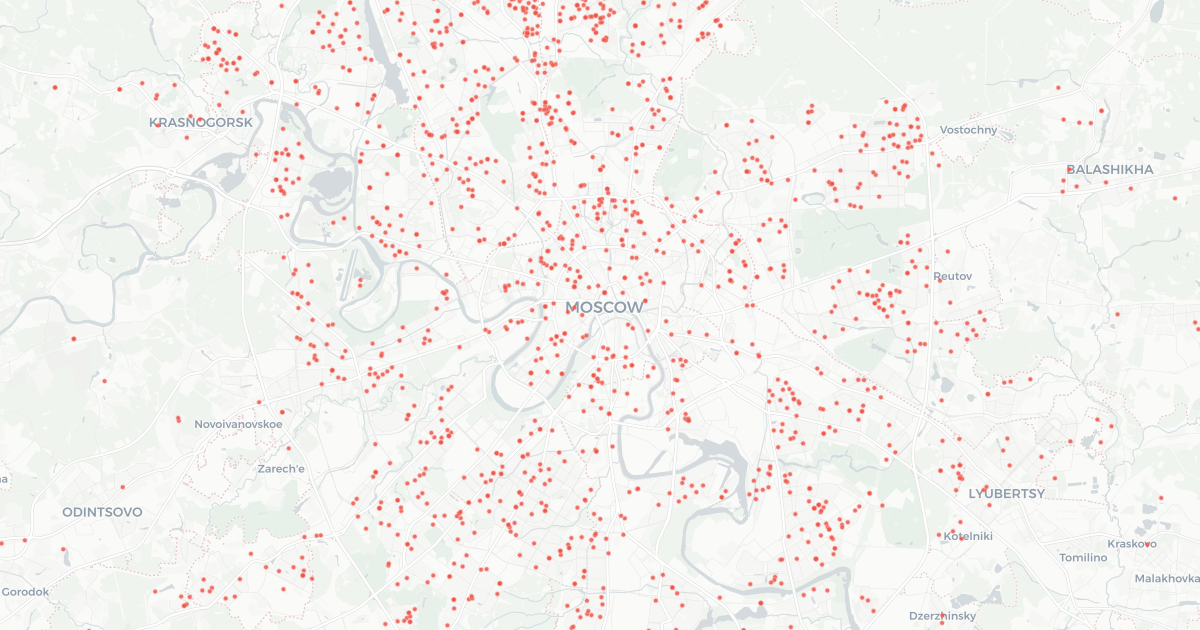
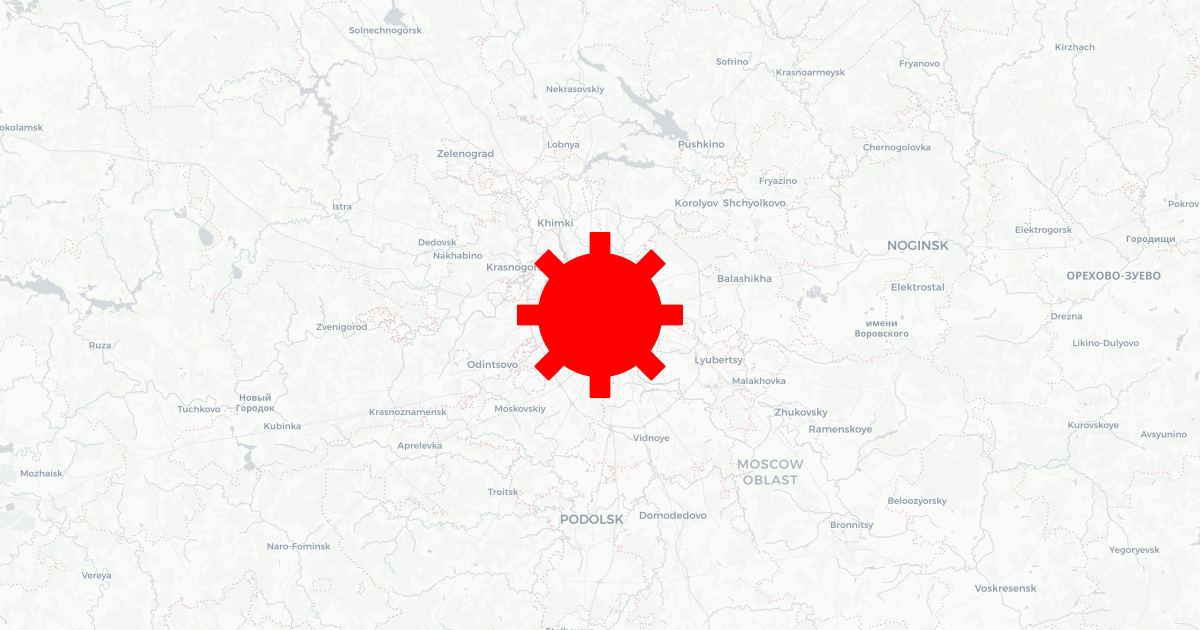
Disable points

diff --git a/css/style.min.css b/css/style.min.css
@@ -1,2 +1,2 @@
 /*! normalize.css v8.0.1 | MIT License | github.com/necolas/normalize.css */
-html{line-height:1.15;-webkit-text-size-adjust:100%}body{font-family:'Montserrat',sans-serif;font-weight:600;margin:0;padding:0;overflow:hidden}canvas,details,main{display:block}h1{font-size:2em;margin:.67em 0}hr{box-sizing:content-box;height:0;overflow:visible}code,kbd,pre,samp{font-family:monospace,monospace;font-size:1em}a{background-color:transparent}abbr[title]{border-bottom:none;-webkit-text-decoration:underline dotted;text-decoration:underline dotted}b,strong{font-weight:bolder}small{font-size:80%}sub,sup{font-size:75%;line-height:0;position:relative;vertical-align:baseline}sub{bottom:-.25em}sup{top:-.5em}img{border-style:none}button,input,optgroup,select,textarea{font-family:inherit;font-size:100%;line-height:1.15;margin:0}button,input{overflow:visible}button,select{text-transform:none}[type=button],[type=reset],[type=submit],button{-webkit-appearance:button}[type=button]::-moz-focus-inner,[type=reset]::-moz-focus-inner,[type=submit]::-moz-focus-inner,button::-moz-focus-inner{border-style:none;padding:0}[type=button]:-moz-focusring,[type=reset]:-moz-focusring,[type=submit]:-moz-focusring,button:-moz-focusring{outline:1px dotted ButtonText}fieldset{padding:.35em .75em .625em}legend{color:inherit;display:table;max-width:100%;white-space:normal}progress{vertical-align:baseline}textarea{overflow:auto}[type=checkbox],[type=radio],legend{box-sizing:border-box;padding:0}[type=number]::-webkit-inner-spin-button,[type=number]::-webkit-outer-spin-button{height:auto}[type=search]{-webkit-appearance:textfield;outline-offset:-2px}[type=search]::-webkit-search-decoration{-webkit-appearance:none}::-webkit-file-upload-button{-webkit-appearance:button;font:inherit}summary{display:list-item}[hidden],template{display:none}#app,#map{width:100vw;height:100vh;height:calc(var(--vh, 1vh)*100);position:absolute}.leaflet-image-layer,.leaflet-layer,.leaflet-marker-icon,.leaflet-marker-shadow,.leaflet-pane,.leaflet-pane>canvas,.leaflet-pane>svg,.leaflet-tile,.leaflet-tile-container,.leaflet-zoom-box{position:absolute;left:0;top:0}.leaflet-container{overflow:hidden}.leaflet-marker-icon,.leaflet-marker-shadow,.leaflet-tile{-webkit-user-select:none;-moz-user-select:none;user-select:none;-webkit-user-drag:none}.leaflet-safari .leaflet-tile{image-rendering:-webkit-optimize-contrast}.leaflet-safari .leaflet-tile-container{width:1600px;height:1600px;-webkit-transform-origin:0 0}.leaflet-control-layers label,.leaflet-marker-icon,.leaflet-marker-shadow{display:block}.leaflet-container .leaflet-marker-pane img,.leaflet-container .leaflet-overlay-pane svg,.leaflet-container .leaflet-shadow-pane img,.leaflet-container .leaflet-tile,.leaflet-container .leaflet-tile-pane img,.leaflet-container img.leaflet-image-layer{max-width:none!important;max-height:none!important}.leaflet-container.leaflet-touch-zoom{touch-action:pan-x pan-y}.leaflet-container.leaflet-touch-drag{touch-action:pinch-zoom}.leaflet-container.leaflet-touch-drag.leaflet-touch-zoom{touch-action:none}.leaflet-container{-webkit-tap-highlight-color:transparent}.leaflet-container a{-webkit-tap-highlight-color:rgba(51,181,229,.4);color:#0078a8}.leaflet-tile{-webkit-filter:inherit;filter:inherit;visibility:hidden}.leaflet-tile-loaded{visibility:inherit}.leaflet-zoom-box{width:0;height:0;box-sizing:border-box;z-index:800}.leaflet-overlay-pane svg{-moz-user-select:none}.leaflet-pane{z-index:400}.leaflet-map-pane svg,.leaflet-tile-pane{z-index:200}.leaflet-overlay-pane{z-index:400}.leaflet-shadow-pane{z-index:500}.leaflet-marker-pane{z-index:600}.leaflet-tooltip-pane{z-index:650}.leaflet-popup-pane{z-index:700}.leaflet-map-pane canvas{z-index:100}.leaflet-vml-shape{width:1px;height:1px}.lvml{behavior:url(#default#VML);display:inline-block;position:absolute}.leaflet-control{position:relative;z-index:800;pointer-events:auto}.leaflet-bottom,.leaflet-top{position:absolute;z-index:1000;pointer-events:none}.leaflet-top{top:0}.leaflet-right{right:0}.leaflet-bottom{bottom:0}.leaflet-left{left:0}.leaflet-control{float:left;clear:both}.leaflet-right .leaflet-control{float:right}.leaflet-top .leaflet-control{margin-top:10px}.leaflet-bottom .leaflet-control{margin-bottom:10px}.leaflet-left .leaflet-control{margin-left:10px}.leaflet-right .leaflet-control{margin-right:10px}.leaflet-fade-anim .leaflet-tile{will-change:opacity}.leaflet-fade-anim .leaflet-popup{opacity:0;transition:opacity .2s linear}.leaflet-fade-anim .leaflet-map-pane .leaflet-popup{opacity:1}.leaflet-zoom-anim .leaflet-zoom-animated{will-change:transform;transition:transform .25s cubic-bezier(0,0,.25,1)}.leaflet-pan-anim .leaflet-tile,.leaflet-zoom-anim .leaflet-tile{transition:none}.leaflet-zoom-anim .leaflet-zoom-hide{visibility:hidden}.leaflet-interactive{cursor:pointer}.leaflet-grab{cursor:-webkit-grab;cursor:grab}.leaflet-crosshair,.leaflet-crosshair .leaflet-interactive{cursor:crosshair}.leaflet-control,.leaflet-popup-pane{cursor:auto}.leaflet-dragging .leaflet-grab,.leaflet-dragging .leaflet-grab .leaflet-interactive,.leaflet-dragging .leaflet-marker-draggable{cursor:move;cursor:-webkit-grabbing;cursor:grabbing}#chart svg,.leaflet-image-layer,.leaflet-marker-icon,.leaflet-marker-shadow,.leaflet-pane>svg path,.leaflet-tile-container{pointer-events:none}.leaflet-image-layer.leaflet-interactive,.leaflet-marker-icon.leaflet-interactive,.leaflet-pane>svg path.leaflet-interactive{pointer-events:auto}.leaflet-container{background:#ddd;outline:0}.leaflet-container a.leaflet-active{outline:2px solid orange}.leaflet-zoom-box{border:2px dotted #38f;background:rgba(255,255,255,.5)}.leaflet-container{font:12px/1.5 "Helvetica Neue",Arial,Helvetica,sans-serif}.leaflet-bar{border-radius:4px}.leaflet-bar a,.leaflet-bar a:hover{background-color:#fff;border-bottom:1px solid #ccc;width:26px;height:26px;line-height:26px;text-align:center;text-decoration:none;color:#000}.leaflet-bar a:hover{display:block;background-color:#f4f4f4}.leaflet-bar a,.leaflet-control-layers-toggle{background-position:50% 50%;background-repeat:no-repeat;display:block}.leaflet-bar a:first-child{border-top-left-radius:4px;border-top-right-radius:4px}.leaflet-bar a:last-child{border-bottom-left-radius:4px;border-bottom-right-radius:4px;border-bottom:none}.leaflet-bar a.leaflet-disabled{cursor:default;background-color:#f4f4f4;color:#bbb}.leaflet-touch .leaflet-bar a{width:30px;height:30px;line-height:30px}.leaflet-touch .leaflet-bar a:first-child{border-top-left-radius:2px;border-top-right-radius:2px}.leaflet-touch .leaflet-bar a:last-child{border-bottom-left-radius:2px;border-bottom-right-radius:2px}.leaflet-control-zoom-in,.leaflet-control-zoom-out{font:700 18px 'Lucida Console',Monaco,monospace;text-indent:1px}.leaflet-touch .leaflet-control-zoom-in,.leaflet-touch .leaflet-control-zoom-out{font-size:22px}.leaflet-control-layers{box-shadow:0 1px 5px rgba(0,0,0,.4);background:#fff;border-radius:5px}.leaflet-control-layers-toggle{background-image:url(images/layers.png);width:36px;height:36px}.leaflet-retina .leaflet-control-layers-toggle{background-image:url(images/layers-2x.png);background-size:26px 26px}.leaflet-touch .leaflet-control-layers-toggle{width:44px;height:44px}.leaflet-control-layers .leaflet-control-layers-list,.leaflet-control-layers-expanded .leaflet-control-layers-toggle{display:none}.leaflet-control-layers-expanded .leaflet-control-layers-list{display:block;position:relative}.leaflet-control-layers-expanded{padding:6px 10px 6px 6px;color:#333;background:#fff}.leaflet-control-layers-scrollbar{overflow-y:scroll;overflow-x:hidden;padding-right:5px}.leaflet-control-layers-selector{margin-top:2px;position:relative;top:1px}.leaflet-control-layers-separator{height:0;border-top:1px solid #ddd;margin:5px -10px 5px -6px}.leaflet-default-icon-path{background-image:url(images/marker-icon.png)}.leaflet-container .leaflet-control-attribution{background:#fff;background:rgba(255,255,255,.7)}.leaflet-control-attribution{padding:0 5px;color:#333}.leaflet-control-scale-line{color:#333;border:2px solid #777;border-top:none;line-height:1.1;padding:2px 5px 1px;font-size:11px;white-space:nowrap;overflow:hidden;box-sizing:border-box;background:#fff;background:rgba(255,255,255,.5)}.leaflet-control-attribution a{text-decoration:none;color:#fff}.leaflet-control-attribution a:hover{text-decoration:underline}.leaflet-container .leaflet-control-scale{font-size:11px}.leaflet-left .leaflet-control-scale{margin-left:5px}.leaflet-bottom .leaflet-control-scale{margin-bottom:5px}.leaflet-control-scale-line:not(:first-child){border-top:2px solid #777;border-bottom:none;margin-top:-2px}.leaflet-control-scale-line:not(:first-child):not(:last-child){border-bottom:2px solid #777}.leaflet-touch .leaflet-bar,.leaflet-touch .leaflet-control-attribution,.leaflet-touch .leaflet-control-layers{box-shadow:none}.leaflet-touch .leaflet-bar,.leaflet-touch .leaflet-control-layers{border:2px solid rgba(0,0,0,.2);background-clip:padding-box}.leaflet-popup{position:absolute;text-align:center;margin-bottom:20px}.leaflet-popup-content-wrapper{padding:1px;text-align:left}.leaflet-popup-content{margin:13px 19px;line-height:1.4}.leaflet-popup-content p{margin:18px 0}.leaflet-popup-tip-container{width:40px;height:20px;position:absolute;left:50%;margin-left:-20px;overflow:hidden;pointer-events:none}.leaflet-popup-tip{width:17px;height:17px;padding:1px;margin:-10px auto 0;transform:rotate(45deg)}.leaflet-popup-content-wrapper,.leaflet-popup-tip{background:#fff;color:#333;box-shadow:0 3px 14px rgba(0,0,0,.4)}.leaflet-container a.leaflet-popup-close-button{position:absolute;top:0;right:0;padding:4px 4px 0 0;border:0;text-align:center;width:18px;height:14px;font:16px/14px Tahoma,Verdana,sans-serif;color:#c3c3c3;text-decoration:none;font-weight:700;background:0 0}.leaflet-container a.leaflet-popup-close-button:hover{color:#999}.leaflet-popup-scrolled{overflow:auto;border-bottom:1px solid #ddd;border-top:1px solid #ddd}.leaflet-oldie .leaflet-popup-content-wrapper{zoom:1}.leaflet-oldie .leaflet-popup-tip{width:24px;margin:0 auto;-ms-filter:"progid:DXImageTransform.Microsoft.Matrix(M11=0.70710678, M12=0.70710678, M21=-0.70710678, M22=0.70710678)";filter:progid:DXImageTransform.Microsoft.Matrix(M11=0.70710678, M12=0.70710678, M21=-0.70710678, M22=0.70710678)}.leaflet-oldie .leaflet-popup-tip-container{margin-top:-1px}.leaflet-oldie .leaflet-control-layers,.leaflet-oldie .leaflet-control-zoom,.leaflet-oldie .leaflet-popup-content-wrapper,.leaflet-oldie .leaflet-popup-tip{border:1px solid #999}.leaflet-div-icon{background:#fff;border:1px solid #666}#chart,.leaflet-tooltip{position:absolute;pointer-events:none}.leaflet-tooltip{padding:6px;background-color:#fff;border:1px solid #fff;border-radius:3px;color:#222;white-space:nowrap;-webkit-user-select:none;-moz-user-select:none;user-select:none;box-shadow:0 1px 3px rgba(0,0,0,.4)}.leaflet-tooltip.leaflet-clickable{cursor:pointer;pointer-events:auto}.leaflet-tooltip-bottom:before,.leaflet-tooltip-left:before,.leaflet-tooltip-right:before,.leaflet-tooltip-top:before{position:absolute;pointer-events:none;border:6px solid transparent;background:0 0;content:""}.leaflet-tooltip-bottom{margin-top:6px}.leaflet-tooltip-top{margin-top:-6px}.leaflet-tooltip-bottom:before{left:50%}.leaflet-tooltip-top:before{left:50%;margin-left:-6px;bottom:0;margin-bottom:-12px;border-top-color:#fff}.leaflet-tooltip-bottom:before{top:0;margin-top:-12px;margin-left:-6px;border-bottom-color:#fff}.leaflet-tooltip-left{margin-left:-6px}.leaflet-tooltip-right{margin-left:6px}.leaflet-tooltip-left:before,.leaflet-tooltip-right:before{top:50%;margin-top:-6px}.leaflet-tooltip-left:before{right:0;margin-right:-12px;border-left-color:#fff}.leaflet-tooltip-right:before{left:0;margin-left:-12px;border-right-color:#fff}.leaflet-container,.leaflet-tile-container{background:#f6f8f5}.leaflet-container .leaflet-control-attribution{color:rgba(255,255,255,.5);background:rgba(0,0,0,.5);margin:4px;border-radius:3px;font-size:11px;text-align:center;word-break:keep-all;white-space:nowrap}.leaflet-bar{box-shadow:0 0 0 3px rgba(0,0,0,.25);-webkit-user-select:none;-moz-user-select:none;user-select:none}.leaflet-control-play{background-image:url(../assets/play.svg);background-position:center;background-repeat:no-repeat}.leaflet-popup-pane{position:absolute;top:0;left:0}.leaflet-popup-content-wrapper{border-radius:5px}#chart{height:300px;width:100%;bottom:20px;z-index:1000}#chart :not(.ct-point){pointer-events:none}.ct-series-c .ct-point{stroke:red;stroke-width:10px;pointer-events:all;cursor:pointer;transition:all .2s ease;transform-origin:center;stroke-linecap:round}.ct-series-c .ct-point:hover{stroke-width:20px}.ct-series-c .ct-point_active{stroke-width:20px;pointer-events:none}.ct-series-c{stroke:red;fill:none;stroke-width:3px}.ct-series-d{stroke:rgba(255,0,0,.8);fill:none;stroke-width:3px}.ct-series-d .ct-area{stroke:none;stroke-width:none;fill:rgba(255,0,0,.2)}.ct-series-a,.ct-series-b{stroke:transparent;fill:none;stroke-width:3px}.ct-series-b{stroke:#2c9138}.ct-label{font-size:11px;color:rgba(0,0,0,.8)}.ct-series .ct-label{stroke:none;stroke-width:0;fill:rgba(0,0,0,.8);font-size:9px}@media screen and (max-width:500px){.ct-series .ct-label{display:none}}.ct-label.ct-vertical.ct-start{align-items:flex-end;justify-content:flex-end;text-align:right;text-anchor:end;display:flex}#content,.ct-labels foreignObject[y="270"]{display:flex}.ct-labels foreignObject[y="270"] span{opacity:0}.ct-labels foreignObject[y="270"] span.visible{opacity:1;transform:translate(-40px,10px);width:80px!important;text-align:center;white-space:nowrap;word-break:break-all}#content{position:absolute;z-index:10000;width:100vw;flex-direction:column;align-content:center;justify-content:center;pointer-events:none;align-items:center}.content__inner{width:80vw;text-align:center;margin-top:5vh;max-width:600px}@media screen and (max-width:500px){.content__inner{width:100vw;margin-top:10vh}}.content__date{font-size:40px;font-weight:800}@media screen and (max-width:500px){.content__date{font-size:28px}}.content__header{padding:15px 0 5px;font-size:24px}@media screen and (max-width:500px){.content__header{font-size:15px}}.content__body{padding-top:15px;display:flex;justify-content:space-evenly}.content__body>div{width:33%;pointer-events:all}@media screen and (max-width:500px){.content__body>div{pointer-events:none}}.content__title{padding-bottom:15px}@media screen and (max-width:500px){.content__title{font-size:15px;padding-bottom:5px}}.content__title span{position:relative;display:inline-block}.content__value{font-size:40px;font-weight:800}@media screen and (max-width:500px){.content__value{font-size:28px}.content__total{font-size:15px;padding-top:5px}}.content__title span:before{content:'';display:block;position:absolute;width:10px;height:3px;transform:translate(-13px,7px)}.content__cases .content__title span:before{background:red}.content__recovered .content__title span:before{background:#439139}.content__footer{padding-top:20px;line-height:1.45}@media screen and (max-width:500px){.content__footer{font-size:15px;padding-top:5px;display:none}}.content__news a{pointer-events:all;color:#0058bf;text-decoration:none;margin-left:10px;font-size:13px}
+html{line-height:1.15;-webkit-text-size-adjust:100%}body{font-family:'Montserrat',sans-serif;font-weight:600;margin:0;padding:0;overflow:hidden}canvas,details,main{display:block}h1{font-size:2em;margin:.67em 0}hr{box-sizing:content-box;height:0;overflow:visible}code,kbd,pre,samp{font-family:monospace,monospace;font-size:1em}a{background-color:transparent}abbr[title]{border-bottom:none;-webkit-text-decoration:underline dotted;text-decoration:underline dotted}b,strong{font-weight:bolder}small{font-size:80%}sub,sup{font-size:75%;line-height:0;position:relative;vertical-align:baseline}sub{bottom:-.25em}sup{top:-.5em}img{border-style:none}button,input,optgroup,select,textarea{font-family:inherit;font-size:100%;line-height:1.15;margin:0}button,input{overflow:visible}button,select{text-transform:none}[type=button],[type=reset],[type=submit],button{-webkit-appearance:button}[type=button]::-moz-focus-inner,[type=reset]::-moz-focus-inner,[type=submit]::-moz-focus-inner,button::-moz-focus-inner{border-style:none;padding:0}[type=button]:-moz-focusring,[type=reset]:-moz-focusring,[type=submit]:-moz-focusring,button:-moz-focusring{outline:1px dotted ButtonText}fieldset{padding:.35em .75em .625em}legend{color:inherit;display:table;max-width:100%;white-space:normal}progress{vertical-align:baseline}textarea{overflow:auto}[type=checkbox],[type=radio],legend{box-sizing:border-box;padding:0}[type=number]::-webkit-inner-spin-button,[type=number]::-webkit-outer-spin-button{height:auto}[type=search]{-webkit-appearance:textfield;outline-offset:-2px}[type=search]::-webkit-search-decoration{-webkit-appearance:none}::-webkit-file-upload-button{-webkit-appearance:button;font:inherit}summary{display:list-item}[hidden],template{display:none}#app,#map{width:100vw;height:100vh;height:calc(var(--vh, 1vh)*100);position:absolute}.leaflet-image-layer,.leaflet-layer,.leaflet-marker-icon,.leaflet-marker-shadow,.leaflet-pane,.leaflet-pane>canvas,.leaflet-pane>svg,.leaflet-tile,.leaflet-tile-container,.leaflet-zoom-box{position:absolute;left:0;top:0}.leaflet-container{overflow:hidden}.leaflet-marker-icon,.leaflet-marker-shadow,.leaflet-tile{-webkit-user-select:none;-moz-user-select:none;user-select:none;-webkit-user-drag:none}.leaflet-safari .leaflet-tile{image-rendering:-webkit-optimize-contrast}.leaflet-safari .leaflet-tile-container{width:1600px;height:1600px;-webkit-transform-origin:0 0}.leaflet-control-layers label,.leaflet-marker-icon,.leaflet-marker-shadow{display:block}.leaflet-container .leaflet-marker-pane img,.leaflet-container .leaflet-overlay-pane svg,.leaflet-container .leaflet-shadow-pane img,.leaflet-container .leaflet-tile,.leaflet-container .leaflet-tile-pane img,.leaflet-container img.leaflet-image-layer{max-width:none!important;max-height:none!important}.leaflet-container.leaflet-touch-zoom{touch-action:pan-x pan-y}.leaflet-container.leaflet-touch-drag{touch-action:pinch-zoom}.leaflet-container.leaflet-touch-drag.leaflet-touch-zoom{touch-action:none}.leaflet-container{-webkit-tap-highlight-color:transparent}.leaflet-container a{-webkit-tap-highlight-color:rgba(51,181,229,.4);color:#0078a8}.leaflet-tile{-webkit-filter:inherit;filter:inherit;visibility:hidden}.leaflet-tile-loaded{visibility:inherit}.leaflet-zoom-box{width:0;height:0;box-sizing:border-box;z-index:800}.leaflet-overlay-pane svg{-moz-user-select:none}.leaflet-pane{z-index:400}.leaflet-map-pane svg,.leaflet-tile-pane{z-index:200}.leaflet-overlay-pane{z-index:400}.leaflet-shadow-pane{z-index:500}.leaflet-marker-pane{z-index:600}.leaflet-tooltip-pane{z-index:650}.leaflet-popup-pane{z-index:700}.leaflet-map-pane canvas{z-index:100}.leaflet-vml-shape{width:1px;height:1px}.lvml{behavior:url(#default#VML);display:inline-block;position:absolute}.leaflet-control{position:relative;z-index:800;pointer-events:auto}.leaflet-bottom,.leaflet-top{position:absolute;z-index:1000;pointer-events:none}.leaflet-top{top:0}.leaflet-right{right:0}.leaflet-bottom{bottom:0}.leaflet-left{left:0}.leaflet-control{float:left;clear:both}.leaflet-right .leaflet-control{float:right}.leaflet-top .leaflet-control{margin-top:10px}.leaflet-bottom .leaflet-control{margin-bottom:10px}.leaflet-left .leaflet-control{margin-left:10px}.leaflet-right .leaflet-control{margin-right:10px}.leaflet-fade-anim .leaflet-tile{will-change:opacity}.leaflet-fade-anim .leaflet-popup{opacity:0;transition:opacity .2s linear}.leaflet-fade-anim .leaflet-map-pane .leaflet-popup{opacity:1}.leaflet-zoom-anim .leaflet-zoom-animated{will-change:transform;transition:transform .25s cubic-bezier(0,0,.25,1)}.leaflet-pan-anim .leaflet-tile,.leaflet-zoom-anim .leaflet-tile{transition:none}.leaflet-zoom-anim .leaflet-zoom-hide{visibility:hidden}.leaflet-interactive{cursor:pointer}.leaflet-grab{cursor:-webkit-grab;cursor:grab}.leaflet-crosshair,.leaflet-crosshair .leaflet-interactive{cursor:crosshair}.leaflet-control,.leaflet-popup-pane{cursor:auto}.leaflet-dragging .leaflet-grab,.leaflet-dragging .leaflet-grab .leaflet-interactive,.leaflet-dragging .leaflet-marker-draggable{cursor:move;cursor:-webkit-grabbing;cursor:grabbing}#chart svg,.leaflet-image-layer,.leaflet-marker-icon,.leaflet-marker-shadow,.leaflet-pane>svg path,.leaflet-tile-container{pointer-events:none}.leaflet-image-layer.leaflet-interactive,.leaflet-marker-icon.leaflet-interactive,.leaflet-pane>svg path.leaflet-interactive{pointer-events:auto}.leaflet-container{background:#ddd;outline:0}.leaflet-container a.leaflet-active{outline:2px solid orange}.leaflet-zoom-box{border:2px dotted #38f;background:rgba(255,255,255,.5)}.leaflet-container{font:12px/1.5 "Helvetica Neue",Arial,Helvetica,sans-serif}.leaflet-bar{border-radius:4px}.leaflet-bar a,.leaflet-bar a:hover{background-color:#fff;border-bottom:1px solid #ccc;width:26px;height:26px;line-height:26px;text-align:center;text-decoration:none;color:#000}.leaflet-bar a:hover{display:block;background-color:#f4f4f4}.leaflet-bar a,.leaflet-control-layers-toggle{background-position:50% 50%;background-repeat:no-repeat;display:block}.leaflet-bar a:first-child{border-top-left-radius:4px;border-top-right-radius:4px}.leaflet-bar a:last-child{border-bottom-left-radius:4px;border-bottom-right-radius:4px;border-bottom:none}.leaflet-bar a.leaflet-disabled{cursor:default;background-color:#f4f4f4;color:#bbb}.leaflet-touch .leaflet-bar a{width:30px;height:30px;line-height:30px}.leaflet-touch .leaflet-bar a:first-child{border-top-left-radius:2px;border-top-right-radius:2px}.leaflet-touch .leaflet-bar a:last-child{border-bottom-left-radius:2px;border-bottom-right-radius:2px}.leaflet-control-zoom-in,.leaflet-control-zoom-out{font:700 18px 'Lucida Console',Monaco,monospace;text-indent:1px}.leaflet-touch .leaflet-control-zoom-in,.leaflet-touch .leaflet-control-zoom-out{font-size:22px}.leaflet-control-layers{box-shadow:0 1px 5px rgba(0,0,0,.4);background:#fff;border-radius:5px}.leaflet-control-layers-toggle{background-image:url(images/layers.png);width:36px;height:36px}.leaflet-retina .leaflet-control-layers-toggle{background-image:url(images/layers-2x.png);background-size:26px 26px}.leaflet-touch .leaflet-control-layers-toggle{width:44px;height:44px}.leaflet-control-layers .leaflet-control-layers-list,.leaflet-control-layers-expanded .leaflet-control-layers-toggle{display:none}.leaflet-control-layers-expanded .leaflet-control-layers-list{display:block;position:relative}.leaflet-control-layers-expanded{padding:6px 10px 6px 6px;color:#333;background:#fff}.leaflet-control-layers-scrollbar{overflow-y:scroll;overflow-x:hidden;padding-right:5px}.leaflet-control-layers-selector{margin-top:2px;position:relative;top:1px}.leaflet-control-layers-separator{height:0;border-top:1px solid #ddd;margin:5px -10px 5px -6px}.leaflet-default-icon-path{background-image:url(images/marker-icon.png)}.leaflet-container .leaflet-control-attribution{background:#fff;background:rgba(255,255,255,.7)}.leaflet-control-attribution{padding:0 5px;color:#333}.leaflet-control-scale-line{color:#333;border:2px solid #777;border-top:none;line-height:1.1;padding:2px 5px 1px;font-size:11px;white-space:nowrap;overflow:hidden;box-sizing:border-box;background:#fff;background:rgba(255,255,255,.5)}.leaflet-control-attribution a{text-decoration:none;color:#fff}.leaflet-control-attribution a:hover{text-decoration:underline}.leaflet-container .leaflet-control-scale{font-size:11px}.leaflet-left .leaflet-control-scale{margin-left:5px}.leaflet-bottom .leaflet-control-scale{margin-bottom:5px}.leaflet-control-scale-line:not(:first-child){border-top:2px solid #777;border-bottom:none;margin-top:-2px}.leaflet-control-scale-line:not(:first-child):not(:last-child){border-bottom:2px solid #777}.leaflet-touch .leaflet-bar,.leaflet-touch .leaflet-control-attribution,.leaflet-touch .leaflet-control-layers{box-shadow:none}.leaflet-touch .leaflet-bar,.leaflet-touch .leaflet-control-layers{border:2px solid rgba(0,0,0,.2);background-clip:padding-box}.leaflet-popup{position:absolute;text-align:center;margin-bottom:20px}.leaflet-popup-content-wrapper{padding:1px;text-align:left}.leaflet-popup-content{margin:13px 19px;line-height:1.4}.leaflet-popup-content p{margin:18px 0}.leaflet-popup-tip-container{width:40px;height:20px;position:absolute;left:50%;margin-left:-20px;overflow:hidden;pointer-events:none}.leaflet-popup-tip{width:17px;height:17px;padding:1px;margin:-10px auto 0;transform:rotate(45deg)}.leaflet-popup-content-wrapper,.leaflet-popup-tip{background:#fff;color:#333;box-shadow:0 3px 14px rgba(0,0,0,.4)}.leaflet-container a.leaflet-popup-close-button{position:absolute;top:0;right:0;padding:4px 4px 0 0;border:0;text-align:center;width:18px;height:14px;font:16px/14px Tahoma,Verdana,sans-serif;color:#c3c3c3;text-decoration:none;font-weight:700;background:0 0}.leaflet-container a.leaflet-popup-close-button:hover{color:#999}.leaflet-popup-scrolled{overflow:auto;border-bottom:1px solid #ddd;border-top:1px solid #ddd}.leaflet-oldie .leaflet-popup-content-wrapper{zoom:1}.leaflet-oldie .leaflet-popup-tip{width:24px;margin:0 auto;-ms-filter:"progid:DXImageTransform.Microsoft.Matrix(M11=0.70710678, M12=0.70710678, M21=-0.70710678, M22=0.70710678)";filter:progid:DXImageTransform.Microsoft.Matrix(M11=0.70710678, M12=0.70710678, M21=-0.70710678, M22=0.70710678)}.leaflet-oldie .leaflet-popup-tip-container{margin-top:-1px}.leaflet-oldie .leaflet-control-layers,.leaflet-oldie .leaflet-control-zoom,.leaflet-oldie .leaflet-popup-content-wrapper,.leaflet-oldie .leaflet-popup-tip{border:1px solid #999}.leaflet-div-icon{background:#fff;border:1px solid #666}#chart,.leaflet-tooltip{position:absolute;pointer-events:none}.leaflet-tooltip{padding:6px;background-color:#fff;border:1px solid #fff;border-radius:3px;color:#222;white-space:nowrap;-webkit-user-select:none;-moz-user-select:none;user-select:none;box-shadow:0 1px 3px rgba(0,0,0,.4)}.leaflet-tooltip.leaflet-clickable{cursor:pointer;pointer-events:auto}.leaflet-tooltip-bottom:before,.leaflet-tooltip-left:before,.leaflet-tooltip-right:before,.leaflet-tooltip-top:before{position:absolute;pointer-events:none;border:6px solid transparent;background:0 0;content:""}.leaflet-tooltip-bottom{margin-top:6px}.leaflet-tooltip-top{margin-top:-6px}.leaflet-tooltip-bottom:before{left:50%}.leaflet-tooltip-top:before{left:50%;margin-left:-6px;bottom:0;margin-bottom:-12px;border-top-color:#fff}.leaflet-tooltip-bottom:before{top:0;margin-top:-12px;margin-left:-6px;border-bottom-color:#fff}.leaflet-tooltip-left{margin-left:-6px}.leaflet-tooltip-right{margin-left:6px}.leaflet-tooltip-left:before,.leaflet-tooltip-right:before{top:50%;margin-top:-6px}.leaflet-tooltip-left:before{right:0;margin-right:-12px;border-left-color:#fff}.leaflet-tooltip-right:before{left:0;margin-left:-12px;border-right-color:#fff}.leaflet-container,.leaflet-tile-container{background:#f6f8f5}.leaflet-container .leaflet-control-attribution{color:rgba(255,255,255,.5);background:rgba(0,0,0,.5);margin:4px;border-radius:3px;font-size:11px;text-align:center;word-break:keep-all;white-space:nowrap}.leaflet-bar{box-shadow:0 0 0 3px rgba(0,0,0,.25);-webkit-user-select:none;-moz-user-select:none;user-select:none}.leaflet-control-play{background-image:url(../assets/play.svg);background-position:center;background-repeat:no-repeat}.leaflet-popup-pane{position:absolute;top:0;left:0}.leaflet-popup-content-wrapper{border-radius:5px}#chart{height:300px;width:100%;bottom:20px;z-index:1000}#chart :not(.ct-point){pointer-events:none}.ct-series-c .ct-point{stroke:red;stroke-width:10px;pointer-events:all;cursor:pointer;transition:all .2s ease;transform-origin:center;stroke-linecap:round}.ct-series-c .ct-point:hover{stroke-width:20px}.ct-series-c .ct-point_active{stroke-width:20px;pointer-events:none}.ct-series-c{stroke:red;fill:none;stroke-width:3px}.ct-series-d{stroke:rgba(255,0,0,.8);fill:none;stroke-width:3px}.ct-series-d .ct-area{stroke:none;stroke-width:none;fill:rgba(255,0,0,.2)}.ct-series-a,.ct-series-b{stroke:transparent;fill:none;stroke-width:3px}.ct-series-b{stroke:#2c9138}.ct-label{font-size:11px;color:rgba(0,0,0,.8)}.ct-series .ct-label{stroke:none;stroke-width:0;fill:rgba(0,0,0,.8);font-size:9px}@media screen and (max-width:500px){.ct-series .ct-label{display:none}}.ct-label.ct-vertical.ct-start{align-items:flex-end;justify-content:flex-end;text-align:right;text-anchor:end;display:flex}#content,.ct-labels foreignObject[y="270"]{display:flex}.ct-labels foreignObject[y="270"] span{opacity:0}.ct-labels foreignObject[y="270"] span.visible{opacity:1;transform:translate(-40px,10px);width:80px!important;text-align:center;white-space:nowrap;word-break:break-all}#content{position:absolute;z-index:10000;width:100vw;flex-direction:column;align-content:center;justify-content:center;pointer-events:none;align-items:center}.content__inner{width:80vw;text-align:center;margin-top:5vh;max-width:600px}@media screen and (max-width:500px){.content__inner{width:100vw;margin-top:10vh}}.content__date{font-size:40px;font-weight:800}@media screen and (max-width:500px){.content__date{font-size:28px}}.content__header{padding:15px 0 5px;font-size:24px}@media screen and (max-width:500px){.content__header{font-size:15px}}.content__body{padding-top:15px;display:flex;justify-content:space-evenly}.content__body>div{width:33%;pointer-events:all}@media screen and (max-width:500px){.content__body>div{pointer-events:none}}.content__title{padding-bottom:15px}@media screen and (max-width:500px){.content__title{font-size:15px;padding-bottom:5px}}.content__title span{position:relative;display:inline-block}.content__value{font-size:40px;font-weight:800}@media screen and (max-width:500px){.content__value{font-size:28px}.content__total{font-size:15px;padding-top:5px}}.content__title span:before{content:'';display:block;position:absolute;width:10px;height:3px;transform:translate(-13px,7px)}.content__cases .content__title span:before{background:red}.content__recovered .content__title span:before{background:#439139}.content__footer{padding-top:20px;line-height:1.45}@media screen and (max-width:500px){.content__footer{font-size:15px;padding-top:5px;display:none}}.content__news a{pointer-events:all;color:#0058bf;text-decoration:none;margin-left:10px;font-size:13px}.ct-series-d,.leaflet-heatmap-layer{display:none}

diff --git a/js/map.js b/js/map.js
@@ -24,7 +24,7 @@ export default class Map {
         }).addTo(this._map);
 
         this._tileLayer = L.tileLayer(this._tileUrl, {
-            attribution: 'Участник &copy; <a href="https://www.openstreetmap.org/copyright">OpenStreetMap</a> | Источники данных <a href="https://coronavirus.mash.ru">Mash</a> и <a href="https://ru.wikipedia.org/wiki/%D0%A5%D1%80%D0%BE%D0%BD%D0%BE%D0%BB%D0%BE%D0%B3%D0%B8%D1%8F_%D1%80%D0%B0%D1%81%D0%BF%D1%80%D0%BE%D1%81%D1%82%D1%80%D0%B0%D0%BD%D0%B5%D0%BD%D0%B8%D1%8F_COVID-19_%D0%B2_%D0%A0%D0%BE%D1%81%D1%81%D0%B8%D0%B8">Wikipedia</a>',
+            attribution: 'Участник &copy; <a href="https://www.openstreetmap.org/copyright">OpenStreetMap</a> | Источники данных <a href="https://ru.wikipedia.org/wiki/%D0%A5%D1%80%D0%BE%D0%BD%D0%BE%D0%BB%D0%BE%D0%B3%D0%B8%D1%8F_%D1%80%D0%B0%D1%81%D0%BF%D1%80%D0%BE%D1%81%D1%82%D1%80%D0%B0%D0%BD%D0%B5%D0%BD%D0%B8%D1%8F_COVID-19_%D0%B2_%D0%A0%D0%BE%D1%81%D1%81%D0%B8%D0%B8">Wikipedia</a>',
             subdomains: 'abcd',
             r: L.Browser.retina ? '@2x' : '',
             maxZoom: 19,

diff --git a/css/style.css b/css/style.css
@@ -1330,3 +1330,11 @@ canvas {
   margin-left: 10px;
   font-size: 13px;
 }
+
+.leaflet-heatmap-layer {
+  display: none;
+}
+
+.ct-series-d {
+  display: none;
+}

diff --git a/scss/disable.scss b/scss/disable.scss
@@ -1,0 +1,7 @@
+.leaflet-heatmap-layer {
+    display : none;
+}
+
+.ct-series-d {
+    display: none;
+}

diff --git a/scss/style.scss b/scss/style.scss
@@ -4,3 +4,4 @@
 @import "map";
 @import "chart";
 @import "content";
+@import "disable";
